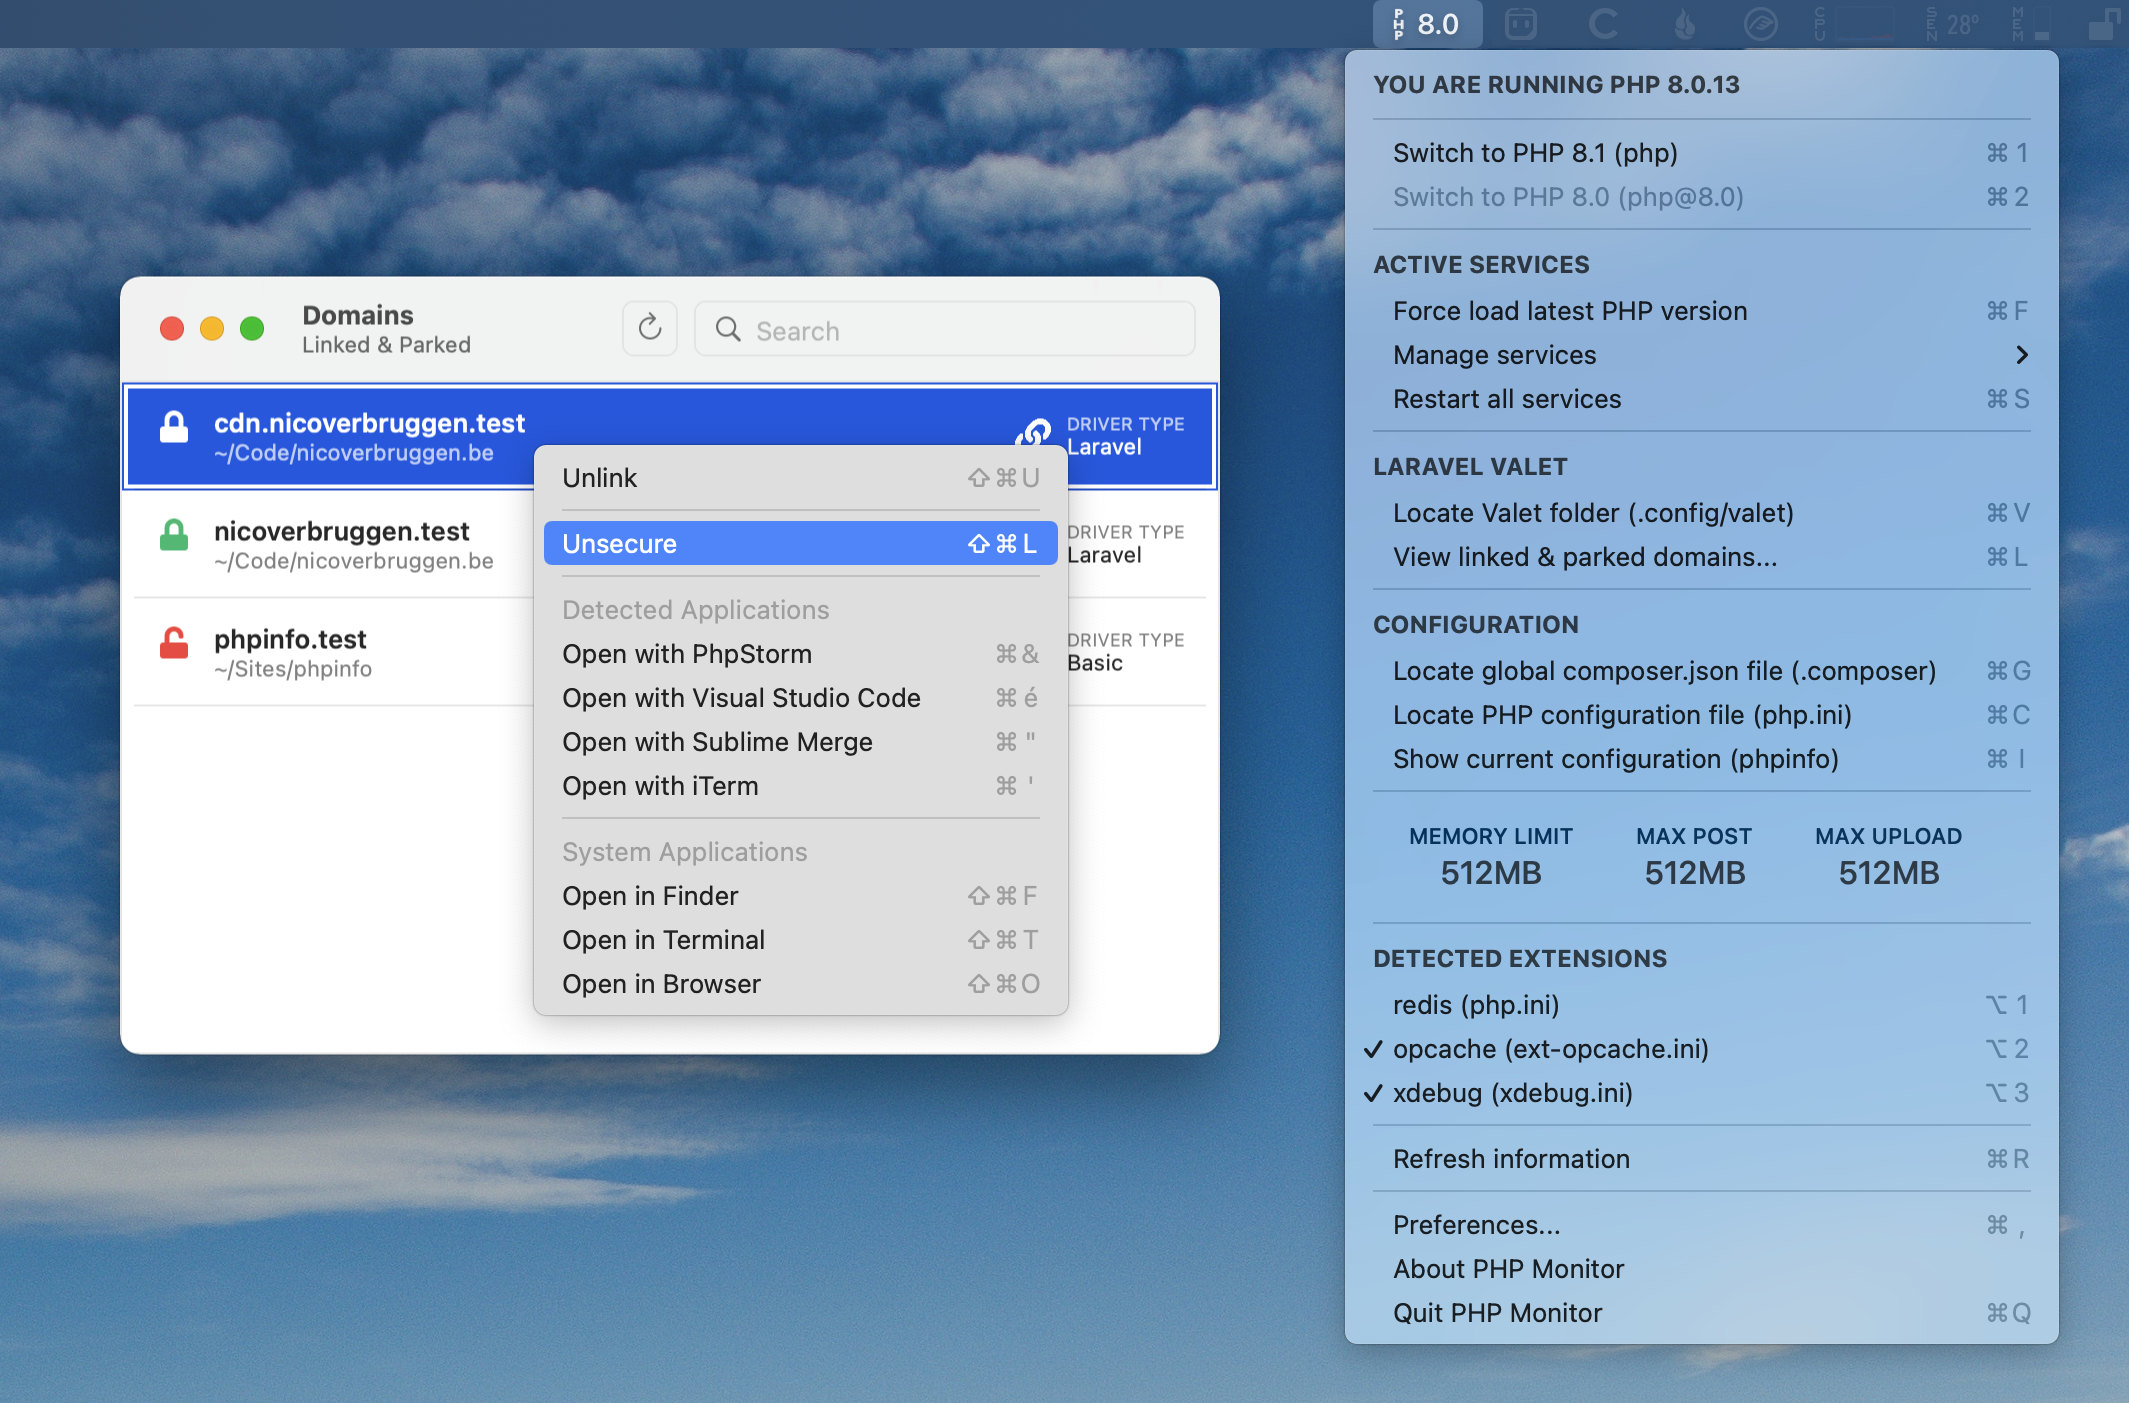
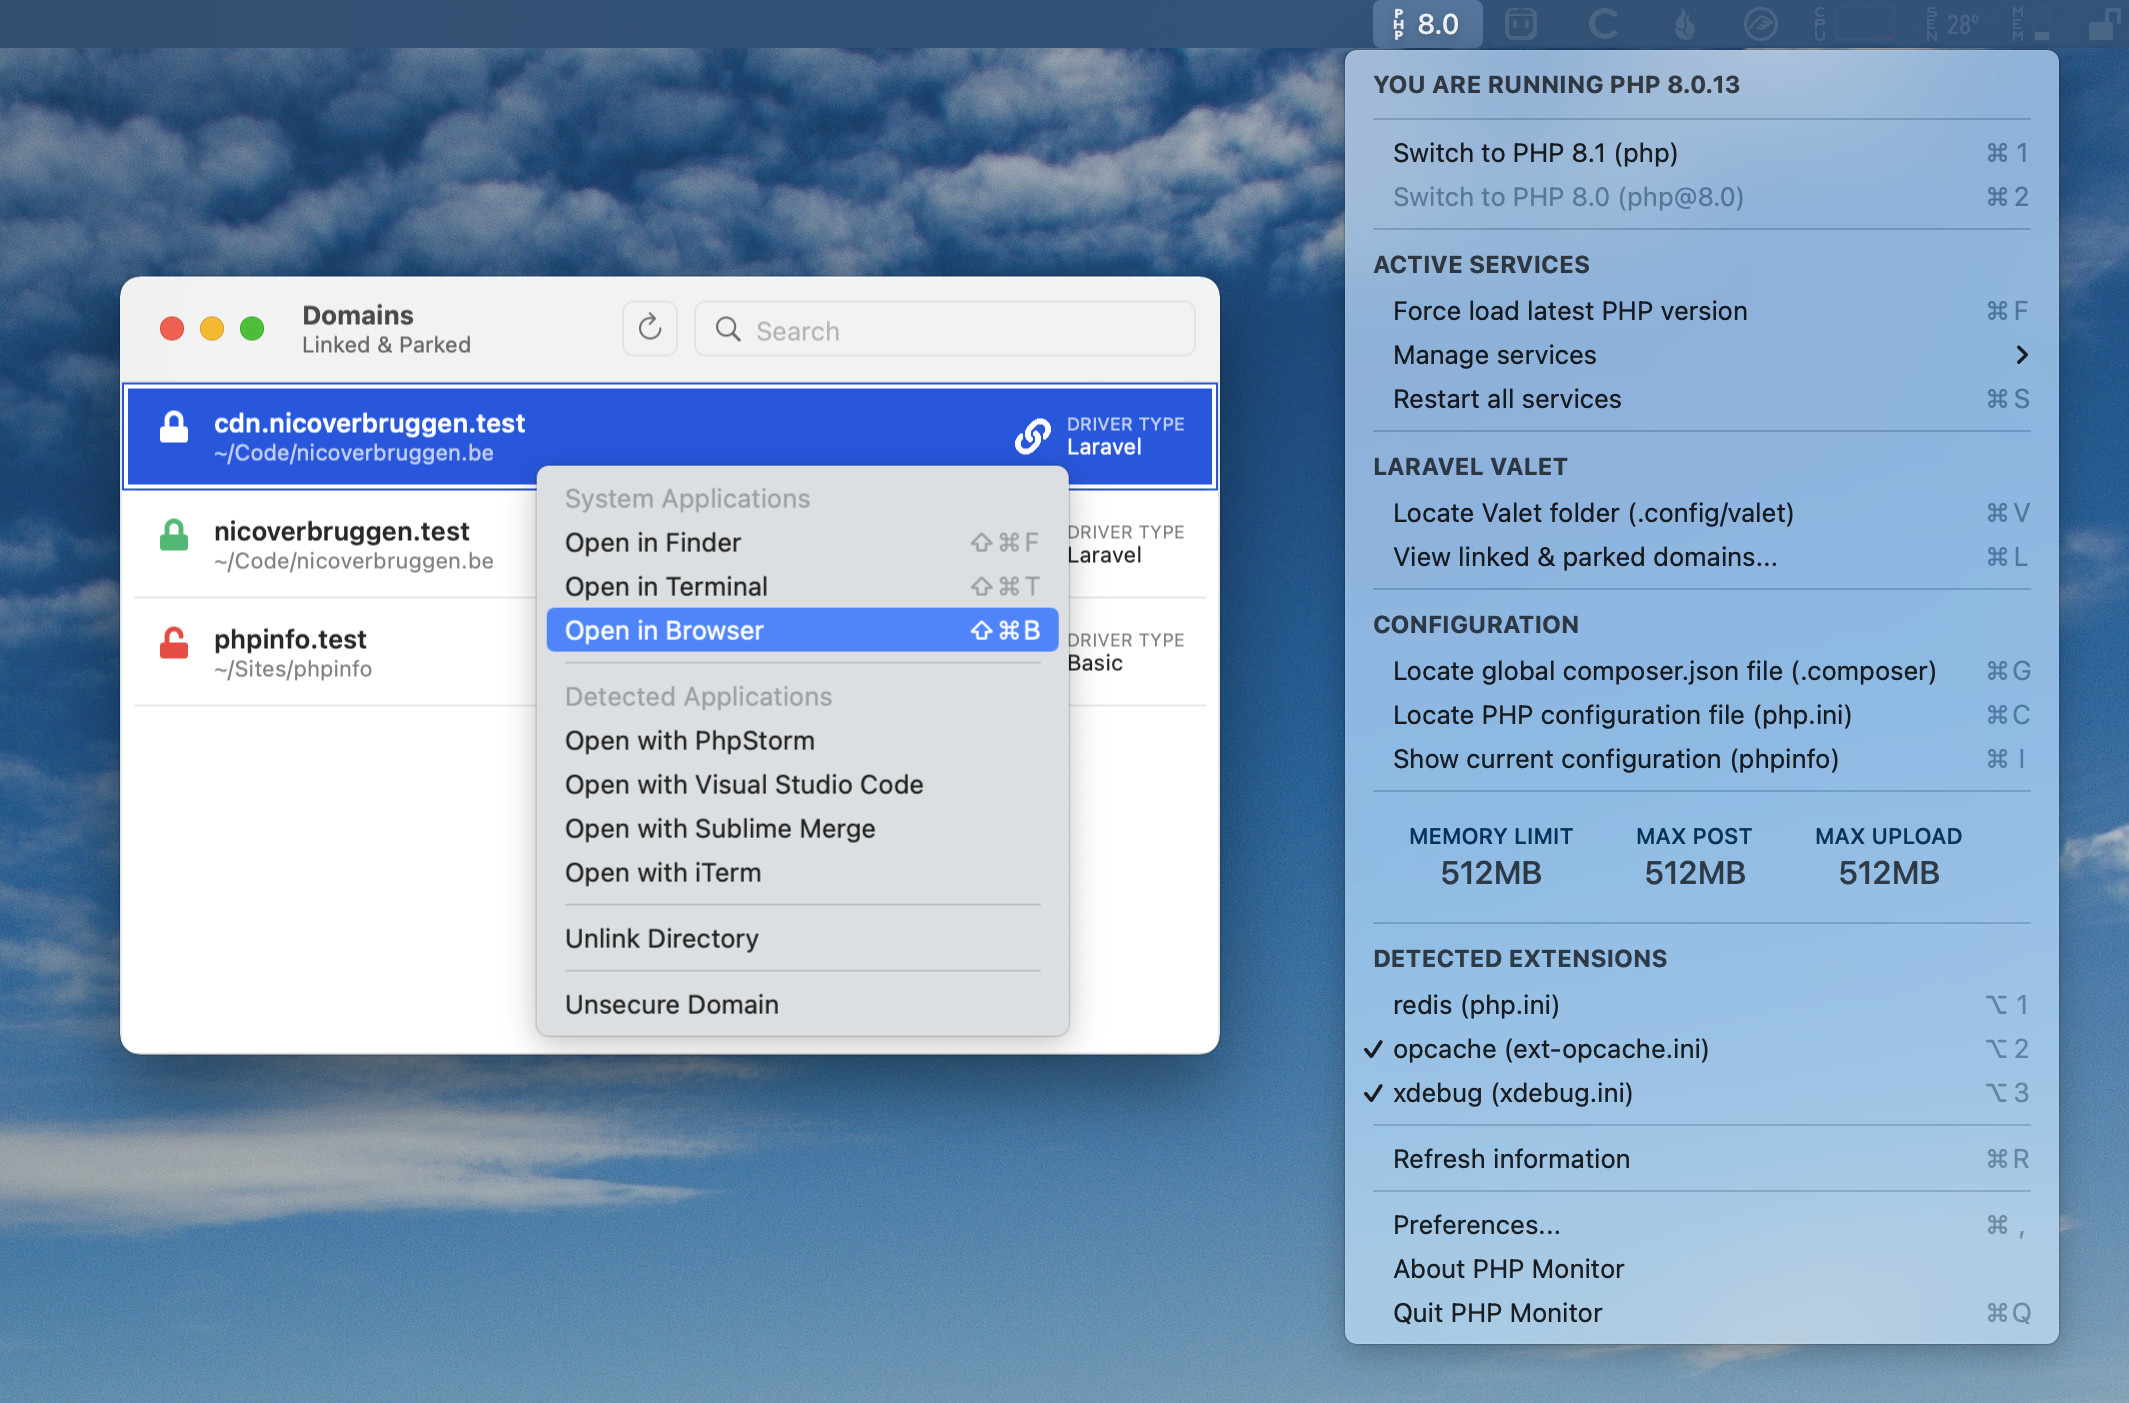
👌 Updated hotkeys and screenshot

Changed region(s): [[0.248, 0.3065, 0.527, 0.7662], [0.465, 0.613, 0.496, 0.7049]]

diff --git a/phpmon/Domain/SiteList/SiteListVC+ContextMenu.swift b/phpmon/Domain/SiteList/SiteListVC+ContextMenu.swift
@@ -44,7 +44,7 @@ extension SiteListVC {
         menu.addItem(
             withTitle: "site_list.open_in_browser".localized,
             action: #selector(self.openInBrowser),
-            keyEquivalent: "O"
+            keyEquivalent: "B"
         )
     }
     
@@ -53,11 +53,11 @@ extension SiteListVC {
             menu.addItem(NSMenuItem.separator())
             menu.addItem(withTitle: "site_list.detected_apps".localized, action: nil, keyEquivalent: "")
             
-            for (index, editor) in applications.enumerated() {
+            for (_, editor) in applications.enumerated() {
                 let editorMenuItem = EditorMenuItem(
                     title: "Open with \(editor.name)",
                     action: #selector(self.openWithEditor(sender:)),
-                    keyEquivalent: "\(index + 1)"
+                    keyEquivalent: ""
                 )
                 editorMenuItem.editor = editor
                 menu.addItem(editorMenuItem)
@@ -70,7 +70,7 @@ extension SiteListVC {
             menu.addItem(
                 withTitle: "site_list.unlink".localized,
                 action: #selector(self.unlinkSite),
-                keyEquivalent: "U"
+                keyEquivalent: ""
             )
             menu.addItem(NSMenuItem.separator())
         }
@@ -82,7 +82,7 @@ extension SiteListVC {
             ? "site_list.unsecure".localized
             : "site_list.secure".localized,
             action: #selector(toggleSecure),
-            keyEquivalent: "L"
+            keyEquivalent: ""
         )
     }
     
